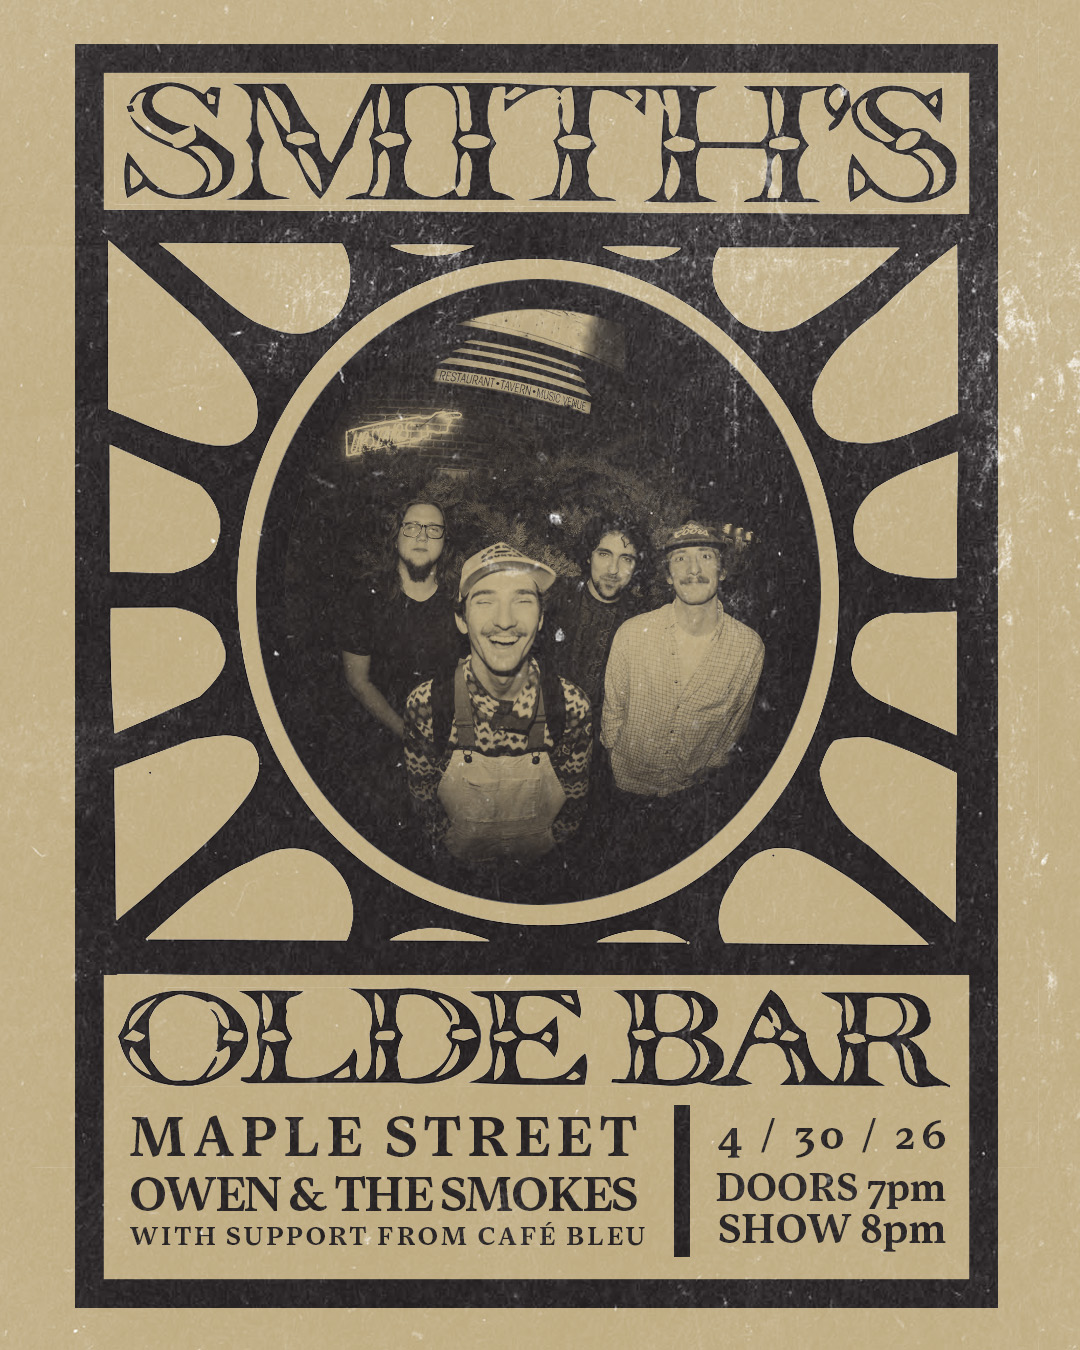
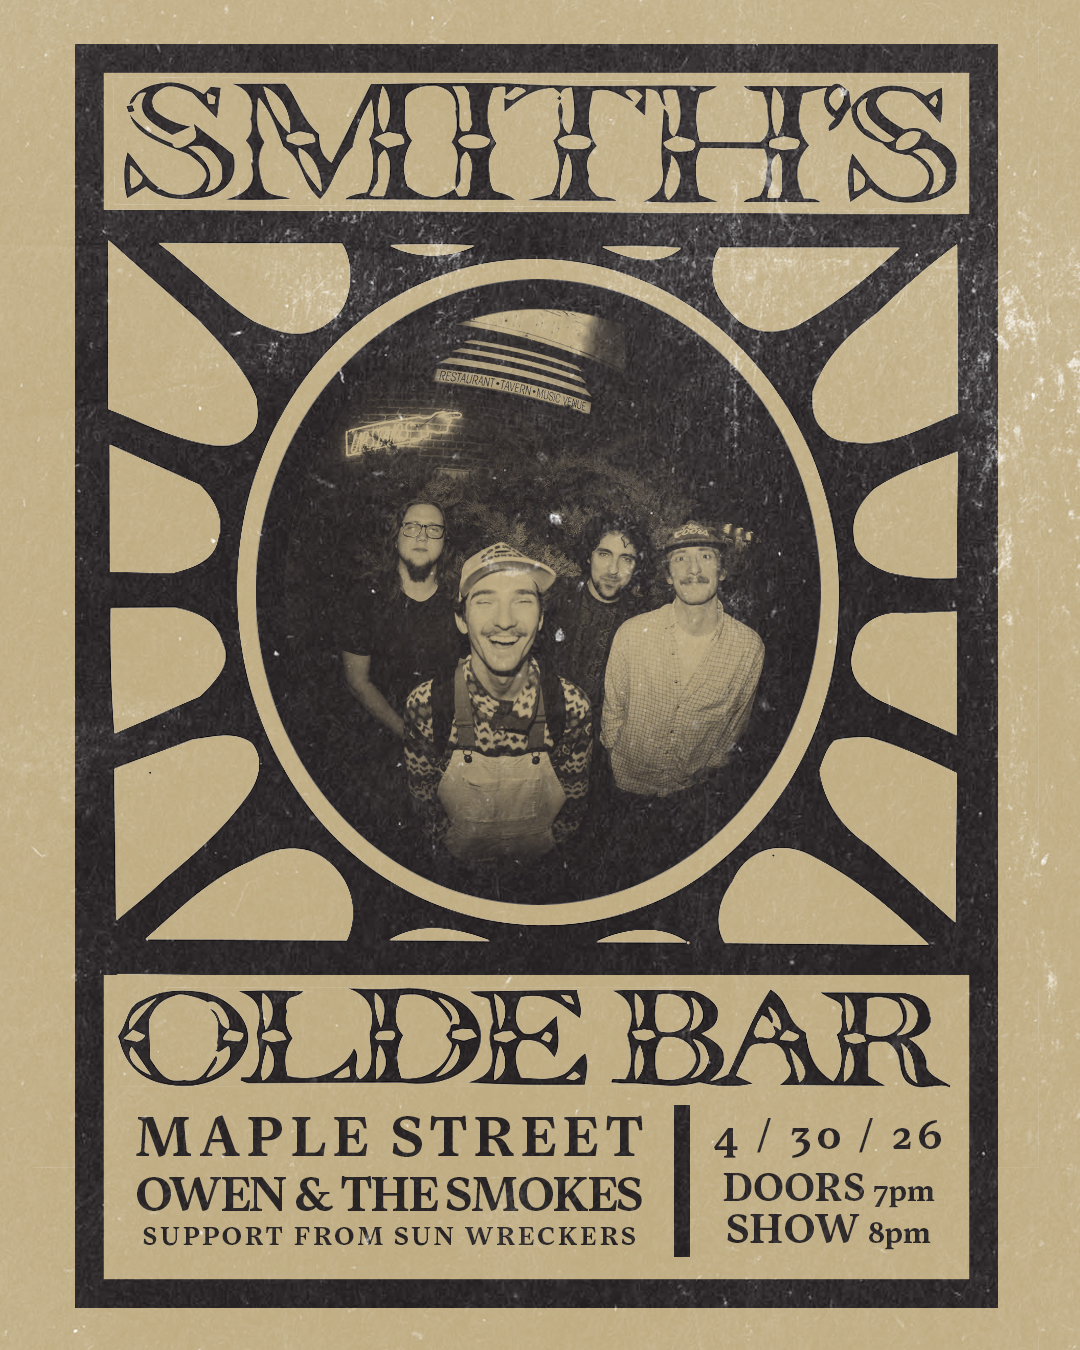
SOB

Changed region(s): [[0.1222, 0.8089, 0.6111, 0.9333], [0.6417, 0.84, 0.8861, 0.9333]]

diff --git a/src/pages/ShowDetail.jsx b/src/pages/ShowDetail.jsx
@@ -15,7 +15,7 @@ import {
 } from "../songs/index.js";
 import SEO, { JsonLd } from "../components/SEO.jsx";
 import PageHeader from "../components/PageHeader.jsx";
-import PicflowGallery from "../components/PicflowGallery.jsx";
+import ImmichGallery from "../components/ImmichGallery.jsx";
 import "./ShowDetail.css";
 
 function IconBrokenLink() {
@@ -47,8 +47,6 @@ function slugifySong(title) {
 }
 
 export default function ShowDetail() {
-  // picflow.com
-  //
   const { slug } = useParams();
   const show = getShowBySlug(slug);
 
@@ -321,10 +319,10 @@ export default function ShowDetail() {
         )}
       </section>
 
-      {/* Picflow photo gallery — only rendered when galleryId is set */}
+      {/* Immich photo gallery — only rendered when galleryId is set */}
       {galleryId && (
         <div className="show-detail-gallery">
-          <PicflowGallery id={galleryId} />
+          <ImmichGallery shareKey={galleryId} mode="full" />
         </div>
       )}
     </div>

diff --git a/src/pages/Gallery.jsx b/src/pages/Gallery.jsx
@@ -2,7 +2,7 @@ import SEO from "../components/SEO.jsx";
 import { Link } from "react-router-dom";
 import { shows, dateFromSlug } from "../shows/index.js";
 import PageHeader from "../components/PageHeader.jsx";
-import PicflowGallery from "../components/PicflowGallery.jsx";
+import ImmichGallery from "../components/ImmichGallery.jsx";
 import "./Gallery.css";
 
 const today = new Date();
@@ -33,9 +33,9 @@ export default function Gallery() {
             const isPast = dateFromSlug(show.slug) < today;
             return (
               <div key={show.slug} className="gallery-card">
-                {/* Picflow thumbnail */}
+                {/* Immich cover thumbnail */}
                 <div className="gallery-card-thumb">
-                  <PicflowGallery id={show.galleryId} />
+                  <ImmichGallery shareKey={show.galleryId} mode="cover" />
                 </div>
 
                 {/* Show info footer */}

diff --git a/src/components/ImmichGallery.css b/src/components/ImmichGallery.css
@@ -1,0 +1,30 @@
+/* =====================
+   IMMICH GALLERY
+   ===================== */
+
+/* ── Cover mode ─────────────────────────────────────────────────────────── */
+
+.immich-cover-img {
+    width: 100%;
+    height: 100%;
+    object-fit: cover;
+    object-position: center;
+    display: block;
+    transition: transform 0.35s ease;
+}
+
+.gallery-card:hover .immich-cover-img {
+    transform: scale(1.04);
+}
+
+/* ── Iframe (full gallery) ──────────────────────────────────────────────── */
+
+.immich-gallery-iframe {
+    width: 100%;
+    min-width: 0;
+    min-height: 600px;
+    border: none;
+    border-radius: 8px;
+    display: block;
+    box-sizing: border-box;
+}

diff --git a/src/components/ImmichGallery.jsx b/src/components/ImmichGallery.jsx
@@ -1,0 +1,38 @@
+const PROXY_URL = "https://ipp.tmsb.net";
+
+function handleIframeLoad(e) {
+  try {
+    const iframe = e.target;
+    const height = iframe.contentWindow.document.documentElement.scrollHeight;
+    if (height > 0) iframe.style.height = height + "px";
+  } catch {
+    // cross-origin — leave min-height fallback in place
+  }
+}
+
+export default function ImmichGallery({ shareKey, mode = "full" }) {
+  if (!shareKey) return null;
+
+  const src = `${PROXY_URL}/share/${shareKey}`;
+
+  if (mode === "cover") {
+    return (
+      <img
+        className="immich-cover-img"
+        src={src}
+        alt="Gallery cover"
+        loading="lazy"
+      />
+    );
+  }
+
+  return (
+    <iframe
+      className="immich-gallery-iframe"
+      src={src}
+      title="Photo Gallery"
+      allowFullScreen
+      onLoad={handleIframeLoad}
+    />
+  );
+}

diff --git a/src/pages/Gallery.css b/src/pages/Gallery.css
@@ -73,15 +73,8 @@
     aspect-ratio: 4 / 3;
     overflow: hidden;
     background: rgba(18, 18, 16, 0.5);
-    /* Constrain the Picflow web component to this box */
     display: flex;
     align-items: stretch;
-}
-
-.gallery-card-thumb picflow-gallery {
-    width: 100%;
-    height: 100%;
-    display: block;
 }
 
 /* =====================
@@ -187,8 +180,4 @@
     .gallery-card-thumb {
         aspect-ratio: 16 / 9;
     }
-}
-
-.picflow-gallery-container {
-    background-color: transparent !important;
 }
